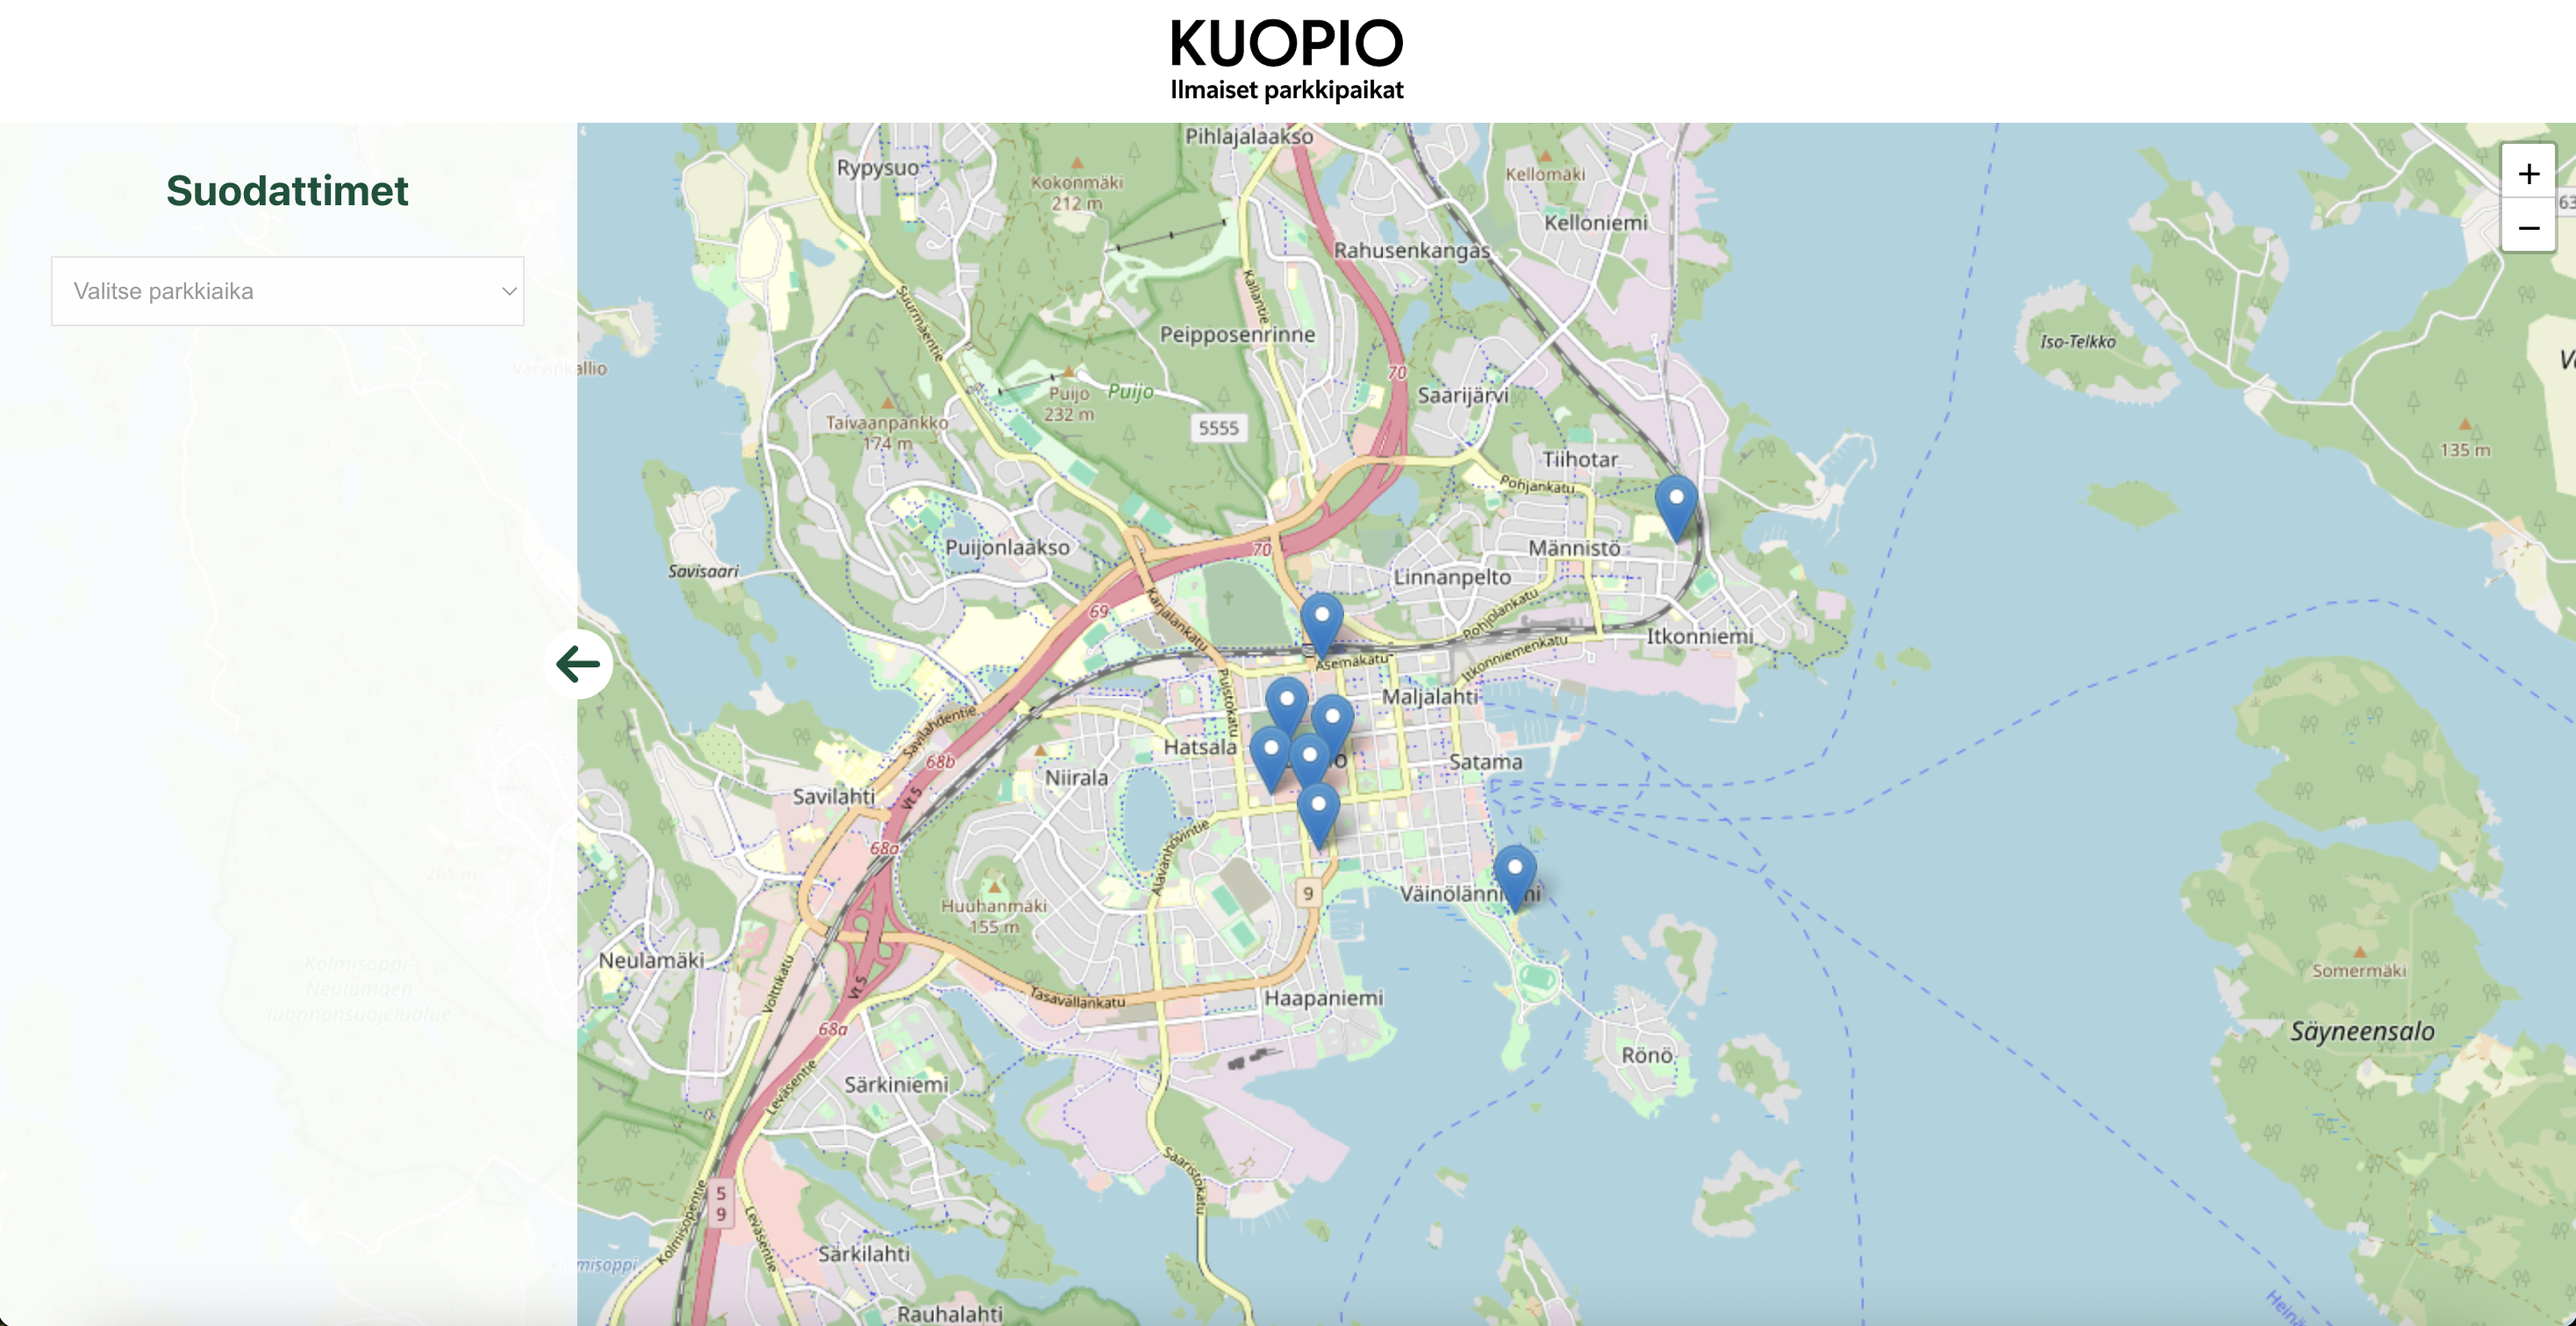
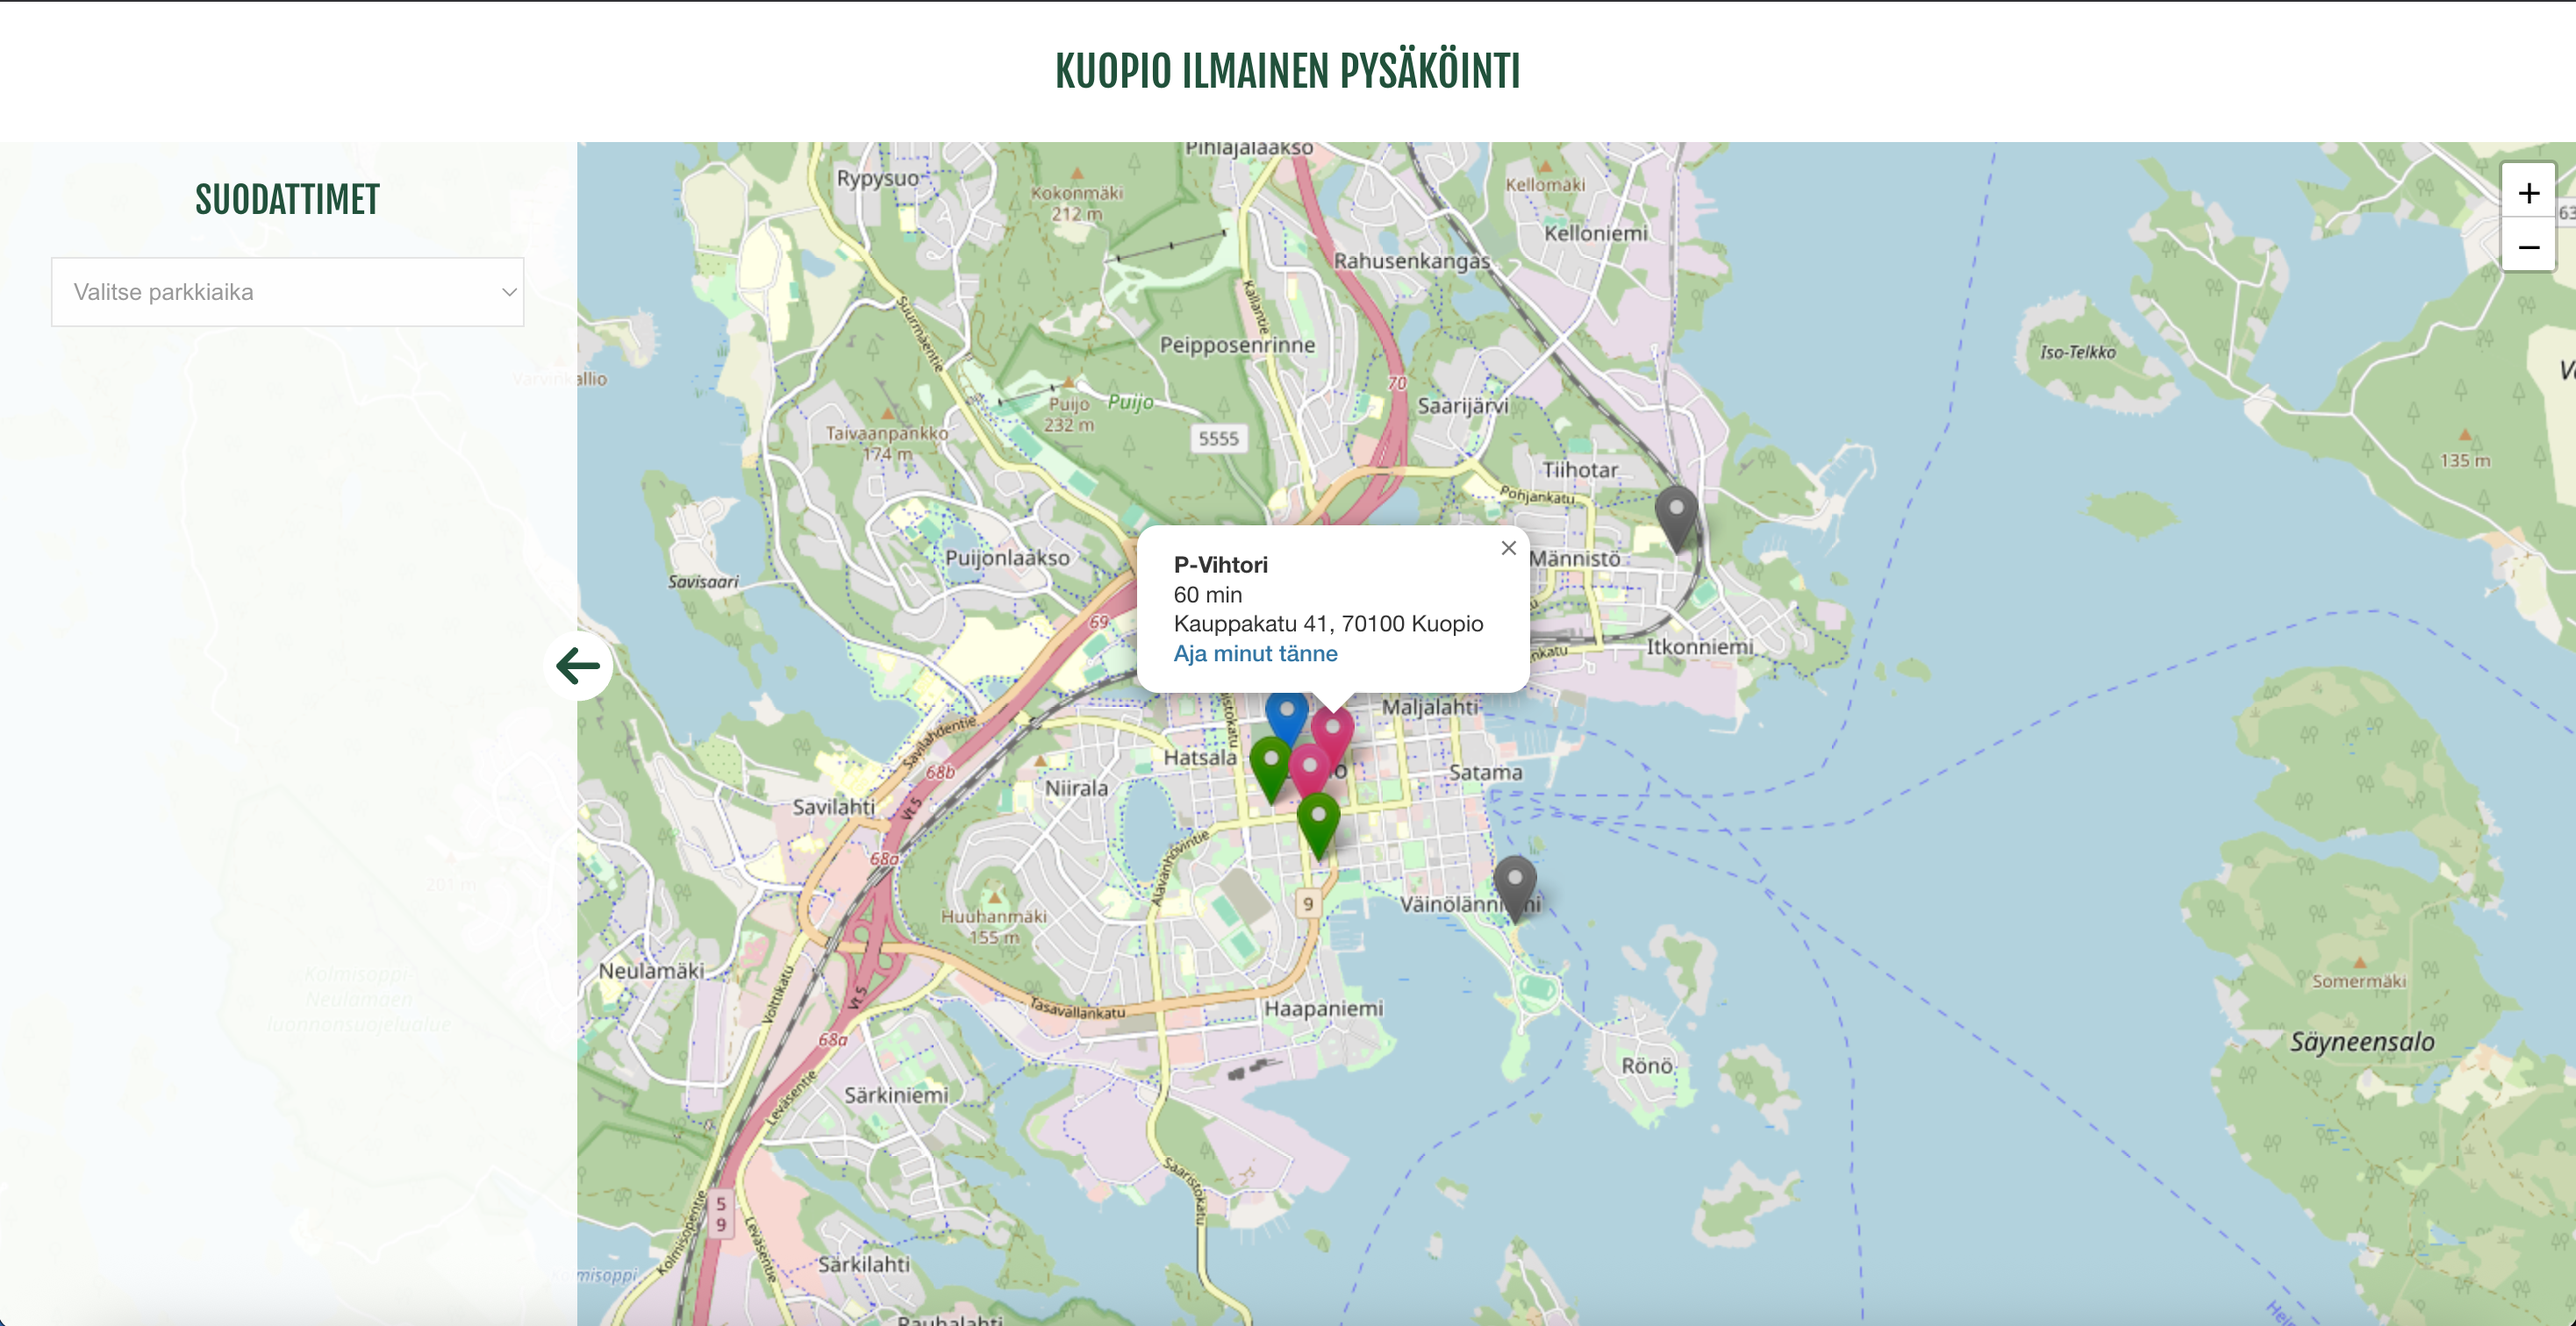
docs: updated README with new mobile and desktop view pictures

diff --git a/README.md b/README.md
@@ -1,10 +1,10 @@
 # Kuopio Free Parking Map
 
 *This is an ongoing project! Check the progress live in Vercel:*
-[https://kuopio-ilmaiset-parkkipaikat.vercel.app/](https://kuopio-ilmaiset-parkkipaikat.vercel.app/)
+[https://kuopio-ilmainen-pysakointi.vercel.app/](https://kuopio-ilmainen-pysakointi.vercel.app/)
 
 ## About
-Kuopio Free Parking Map is a React project built with Vite, featuring a Leaflet map that displays free parking spots in Kuopio. Parking locations are stored as GeoJSON. The plan is to integrate a MongoDB connection, allowing dynamic updates to the GeoJSON data.
+Kuopio Free Parking Map is a React project built with Vite, featuring a Leaflet map that displays free parking spots in Kuopio. Parking locations are stored as GeoJSON. The plan is to integrate a MongoDB connection, allowing dynamic updates to the GeoJSON data. The user can filter the results on the map and use the Google Maps link "Aja minut tänne" to get directions to the parking spot from their current location.
 
 ## Tech Stack
 - React
@@ -12,9 +12,12 @@ Kuopio Free Parking Map is a React project built with Vite, featuring a Leaflet 
 - GeoJSON
 - MongoDB (planned)
 
-## Current (development) version looks like this:
-![screenshot of the current version](./versions/version_latest.png)
+## Current version looks like this:
 
+### Mobile view:
+<div style="float: left">
+    <img src="./versions/mobile/mobile_2.jpg" width="300" />
+    <img src="./versions/mobile/mobile_1.jpg" width="300" />
+</div>
 
-
-
+<img src="./versions/version_latest.png" width="605" />
